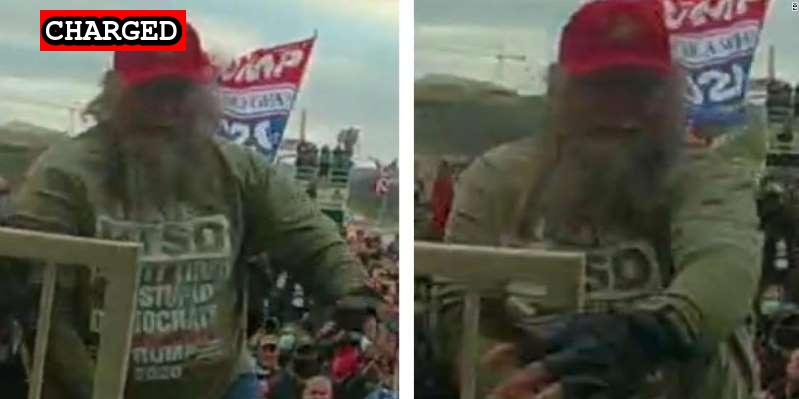
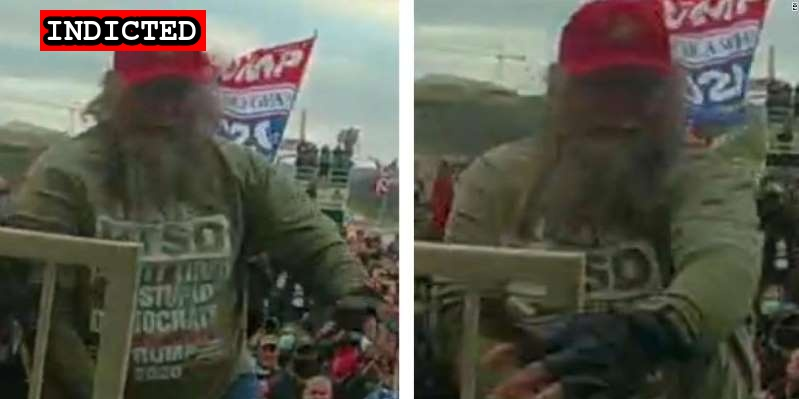
More indictments and suspects

Changed region(s): [[0.03, 0.0, 0.2703, 0.1504]]

diff --git a/commands/suspect-import.ts b/commands/suspect-import.ts
@@ -97,7 +97,7 @@ const importGw = async (nameSet: Set<string>) => {
 
       const nameText = (entry.querySelector("strong") || entry.querySelector("em") || entry.querySelector("font")).innerText
 
-      const [lastName, rest] = nameText.split(",").map( (chunk:string) => chunk.trim().replace("&nbsp;", ""));
+      const [lastName, rest] = nameText.split(",").map( (chunk:string) => chunk.trim().replace("&nbsp;", "").replace("IV", ""));
 
       const firstName = rest.split(" ")[0];
       const residence = entry.innerText.match(/State: (.*)/)[1].replace("Unknown", "").replace("&nbsp;", "").replace("Massachusets", "Massachusetts");

diff --git a/commands/charges-import.ts b/commands/charges-import.ts
@@ -94,6 +94,7 @@ const getCharges = async() => {
       const charges = chargeCell.split("\n")
 
       for (let charge of charges) {
+        console.log({charge})
         charge = charge.replace("–", "-").replace("§", "")
         // ignore state charges
         if (/\d{1,2} DC.*/.test(charge)) {

diff --git a/docs/_suspects/bruno-cua.md b/docs/_suspects/bruno-cua.md
@@ -3,10 +3,10 @@ name: Bruno Cua
 lastName: Cua
 aka:
 residence: Georgia
-status: Charged
+status: Indicted
 date: 2021-02-05
 charged: 2021-02-05
-indicted:
+indicted: 2021-02-10
 age: 18
 occupation:
 affiliations:
@@ -25,23 +25,24 @@ author: seditiontrack
 layout: suspect
 published: true
 charges:
-- name: Assaulting, resisting, or impeding certain officers or employees
-  code: 18 USC 111
-  link: https://www.law.cornell.edu/uscode/text/18/111
-- name: Civil disorder
-  code: 18 USC 231
-  link: https://www.law.cornell.edu/uscode/text/18/231
-- name: Obstruction of an official proceeding
-  code: 18 USC 1512
-  link: https://www.law.cornell.edu/uscode/text/18/1512
-- name: Unlawful entry on restricted building or grounds
-  code: 18 USC 1752
-  link: https://www.law.cornell.edu/uscode/text/18/1752
-- name: Violent entry or disorderly conduct on Capitol grounds
-  code: 40 USC 5104
-  link: https://www.law.cornell.edu/uscode/text/40/5104
+  - name: Assaulting, resisting, or impeding certain officers or employees
+    code: 18 USC 111
+    link: https://www.law.cornell.edu/uscode/text/18/111
+  - name: Civil disorder
+    code: 18 USC 231
+    link: https://www.law.cornell.edu/uscode/text/18/231
+  - name: Obstruction of an official proceeding
+    code: 18 USC 1512
+    link: https://www.law.cornell.edu/uscode/text/18/1512
+  - name: Unlawful entry on restricted building or grounds
+    code: 18 USC 1752
+    link: https://www.law.cornell.edu/uscode/text/18/1752
+  - name: Violent entry or disorderly conduct on Capitol grounds
+    code: 40 USC 5104
+    link: https://www.law.cornell.edu/uscode/text/40/5104
 ---
 
 - [News Story](https://www.ajc.com/news/metro-atlanta-teen-charged-in-us-capitol-attack/U7EPRZANXVBFPB7KRW7EQ3VRIE/)
 - [FBI Statement (Twitter)](https://twitter.com/FBIAtlanta/status/1358082973623533571?s=20)
 - [Statement of Facts](https://assets.documentcloud.org/documents/20475133/bruno_cua.pdf)
+- [Indictment](https://extremism.gwu.edu/sites/g/files/zaxdzs2191/f/Bruno%20Joseph%20Cua%20Indictment.pdf)

diff --git a/docs/_suspects/peter-stager.md b/docs/_suspects/peter-stager.md
@@ -3,10 +3,10 @@ name: Peter Stager
 lastName: Stager
 aka:
 residence: Arkansas
-status: Charged
+status: Indicted
 date: 2021-01-14
 charged: 2021-01-14
-indicted:
+indicted: 2021-01-29
 age: 41
 occupation:
 affiliations:
@@ -18,19 +18,21 @@ courtroom: peter-stager.jpg
 courthouse:
 raid: peter-stager.jpg
 perpwalk:
-quote: "Everybody in there is a treasonous traitor. Death is the only remedy for what’s in that building."
+quote: 'Everybody in there is a treasonous traitor. Death is the only remedy for what’s in that building.'
 title: Peter Stager charged on January 14, 2021
 description: Click for latest case details. Suspects considered innocent until proven guilty.
 author: seditiontrack
 layout: suspect
 published: true
 charges:
- - name: Civil disorder
-   code: 18 USC 231
-   link: https://www.law.cornell.edu/uscode/text/18/231
+  - name: Civil disorder
+    code: 18 USC 231
+    link: https://www.law.cornell.edu/uscode/text/18/231
 ---
+
 - [News Report](https://www.wsj.com/livecoverage/trump-impeachment-house-biden/card/BeFqRm1wpv2SEpH3SSLQ)
 - [Self Incrimination [VIDEO]](https://www.youtube.com/watch?v=SVhLKKTUhIg&feature=youtu.be)
 - [Complaint](https://www.justice.gov/opa/page/file/1354981/download)
 - [Statement of Facts](https://www.justice.gov/opa/page/file/1355506/download)
 - [Booking (Video)](https://www.thv11.com/video/news/crime/peter-stager-booking-video/91-fc5a4b9c-0c85-4f3c-8974-04b77409c8cc)
+- [Indictment](https://extremism.gwu.edu/sites/g/files/zaxdzs2191/f/Sabol%20Stager%20Lopatic%20Indictment.pdf)

diff --git a/docs/_suspects/jeffrey-sabol.md b/docs/_suspects/jeffrey-sabol.md
@@ -3,10 +3,10 @@ name: Jeffrey Sabol
 lastName: Sabol
 aka:
 residence: New York
-status: Charged
+status: Indicted
 date: 2021-01-22
 charged: 2021-01-22
-indicted:
+indicted: 2021-01-29
 age: 51
 occupation: Geologist
 affiliations:
@@ -25,12 +25,14 @@ author: seditiontrack
 layout: suspect
 published: true
 charges:
- - name: Civil disorder
-   code: 18 USC 231
-   link: https://www.law.cornell.edu/uscode/text/18/231
+  - name: Civil disorder
+    code: 18 USC 231
+    link: https://www.law.cornell.edu/uscode/text/18/231
 ---
+
 - [News Report](https://www.cnbc.com/2021/01/22/capitol-riots-man-admits-dragging-cop-to-be-beaten-by-flag-pole.html)
 - [FBI Statement (Twitter)](https://twitter.com/NewYorkFBI/status/1352658310269382656?s=20)
 - [DOJ Press Release](https://www.justice.gov/usao-dc/pr/three-charged-federal-court-assaulting-and-impeding-local-and-federal-officers-during-us)
 - [Complaint](https://www.justice.gov/opa/page/file/1360836/download)
 - [Statement of Facts](https://www.justice.gov/opa/page/file/1360836/download)
+- [Indictment](https://extremism.gwu.edu/sites/g/files/zaxdzs2191/f/Sabol%20Stager%20Lopatic%20Indictment.pdf)

diff --git a/docs/_suspects/michael-lopatic.md b/docs/_suspects/michael-lopatic.md
@@ -3,10 +3,10 @@ name: Michael Lopatic
 lastName: Lopatic
 aka:
 residence: Pennsylvania
-status: Charged
+status: Indicted
 date: 2021-02-03
 charged: 2021-02-03
-indicted:
+indicted: 2021-01-29
 age: 57
 occupation: Unemployed, Former Marine
 affiliations:
@@ -30,3 +30,4 @@ charges:
 - [News Report](https://lancasteronline.com/news/local/neighbors-react-to-arrest-of-manheim-twp-man-accused-of-assaulting-police-during-capitol-riot/article_7f3a031c-6bec-11eb-b41e-3f59ba4e0969.html)
 - [DOJ Press Release](https://extremism.gwu.edu/sites/g/files/zaxdzs2191/f/Michael%20John%20Lopatic%20Govt%20Motion%20for%20Pretrial%20Detention.pdf)
 - [Motion for Pretrial Detention](https://extremism.gwu.edu/sites/g/files/zaxdzs2191/f/Michael%20John%20Lopatic%20Govt%20Motion%20for%20Pretrial%20Detention.pdf)
+- [Indictment](https://extremism.gwu.edu/sites/g/files/zaxdzs2191/f/Sabol%20Stager%20Lopatic%20Indictment.pdf)

diff --git a/docs/_suspects/leo-bozell-.md b/docs/_suspects/leo-bozell-.md
@@ -1,0 +1,31 @@
+---
+name: Leo Bozell
+lastName: Bozell
+aka:
+residence: Pennsylvania
+status: Charged
+date: 2021-02-11
+charged: 2021-02-11
+indicted:
+age:
+occupation:
+affiliations:
+jurisdiction: Federal
+image: /images/preview/leo-bozell-.jpg
+suspect: leo-bozell-.jpg
+booking:
+courtroom:
+courthouse:
+raid:
+perpwalk:
+quote:
+title: Leo Bozell  charged on [longDate]
+description: Click for latest case details. Suspects innocent until proven guilty.
+author: seditiontrack
+layout: suspect
+published: false
+charges:
+---
+
+- [News Report]()
+- [Statement of Facts](https://extremism.gwu.edu/sites/g/files/zaxdzs2191/f/Leo%20Brent%20Bozell%20Affidavit%20in%20Support%20of%20Criminal%20Complaint.pdf)

diff --git a/docs/_suspects/daniel-egtvedt.md b/docs/_suspects/daniel-egtvedt.md
@@ -1,0 +1,31 @@
+---
+name: Daniel Egtvedt
+lastName: Egtvedt
+aka:
+residence: Maryland
+status: Charged
+date: 2021-02-09
+charged: 2021-02-09
+indicted:
+age:
+occupation:
+affiliations:
+jurisdiction: Federal
+image: /images/preview/daniel-egtvedt.jpg
+suspect: daniel-egtvedt.jpg
+booking:
+courtroom:
+courthouse:
+raid:
+perpwalk:
+quote:
+title: Daniel Egtvedt charged on [longDate]
+description: Click for latest case details. Suspects innocent until proven guilty.
+author: seditiontrack
+layout: suspect
+published: false
+charges:
+---
+
+- [News Report]()
+- [Complaint](https://extremism.gwu.edu/sites/g/files/zaxdzs2191/f/Daniel%20Dean%20Egtvedt%20Criminal%20Complaint.pdf)

diff --git a/docs/_suspects/mariposa-castro.md b/docs/_suspects/mariposa-castro.md
@@ -1,0 +1,31 @@
+---
+name: Mariposa Castro
+lastName: Castro
+aka:
+residence: California
+status: Charged
+date: 2021-02-09
+charged: 2021-02-09
+indicted:
+age:
+occupation:
+affiliations:
+jurisdiction: Federal
+image: /images/preview/mariposa-castro.jpg
+suspect: mariposa-castro.jpg
+booking:
+courtroom:
+courthouse:
+raid:
+perpwalk:
+quote:
+title: Mariposa Castro charged on [longDate]
+description: Click for latest case details. Suspects innocent until proven guilty.
+author: seditiontrack
+layout: suspect
+published: false
+charges:
+---
+
+- [News Report]()
+- [Complaint](https://extremism.gwu.edu/sites/g/files/zaxdzs2191/f/Mariposa%20Castro%20Criminal%20Complaint.pdf)
